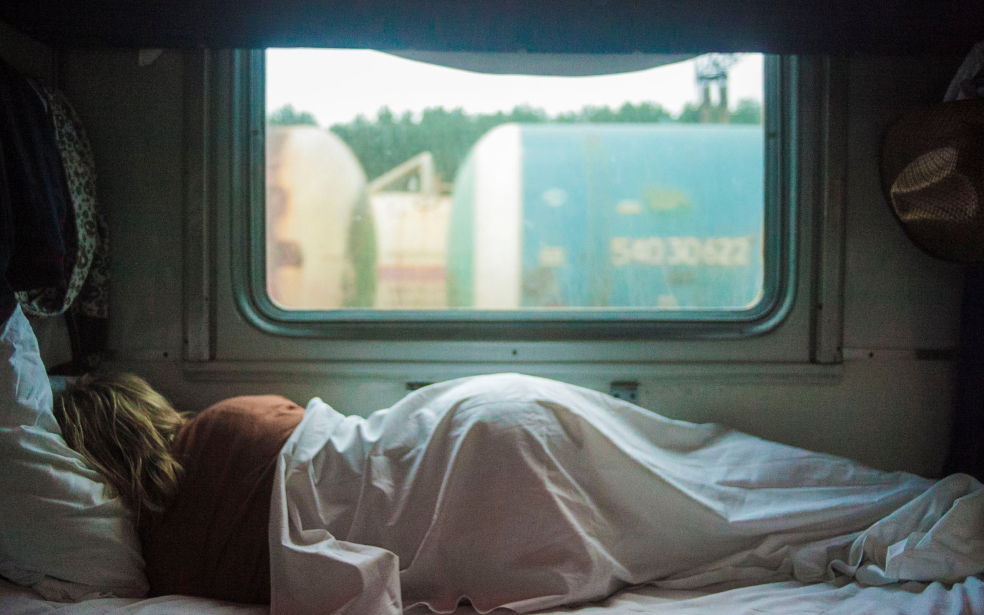
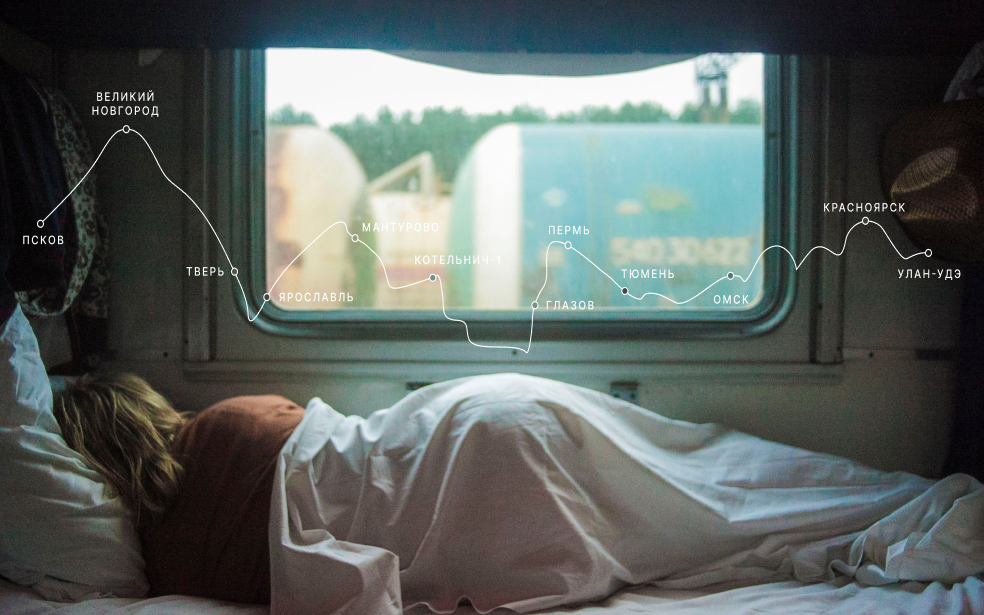
4. Вёрстка секции lead

diff --git a/index.html b/index.html
@@ -15,7 +15,7 @@
     </a>
     <ul class="header__lang-list">
       <li class="header__lang-item">
-        <a href="#" class="header__lang-link header__lang-link_status_active" title="Переключить на Русский язык">Ru</a>
+        <a class="header__lang-link header__lang-link_status_active" title="Переключить на Русский язык">Ru</a>
       </li>
       <li class="header__lang-item">
         <a href="#" class="header__lang-link" title="Switch to English version">En</a>
@@ -26,8 +26,10 @@
     <section class="lead">
       <h1 class="lead__title">Путешествия по России</h1>
       <p class="lead__subtitle">Настоящая страна не в выпусках новостей, а здесь.</p>
-      <div class="lead__image"></div>
-      <p class="lead__caption">ваша полка — верхняя</p>
+      <figure class="lead__figure">
+        <img src="./images/lead-polka.jpg" class="lead__image" alt="Карта путешествия">
+        <figcaption class="lead__caption">ваша полка — верхняя</figcaption>
+      </figure>
     </section>
   </main>
 </body>

diff --git a/blocks/header/header.css b/blocks/header/header.css
@@ -1,6 +1,6 @@
 .header {
   margin: 28px auto 56px;
-  width: calc(100% - 96px);
+  max-width: calc(100% - 96px);
   display: flex;
   justify-content: start;
   align-items: flex-start;
@@ -8,17 +8,19 @@
 }
 @media (min-width: 769px) and (max-width: 1024px) {
   .header {
-    width: calc(100% - 96px);
+    margin: 28px auto 48px;
+    max-width: calc(100% - 96px);
   }
 }
 @media (min-width: 426px) and (max-width: 768px) {
   .header {
-    width: calc(100% - 48px);
+    margin: 28px auto 48px;
+    max-width: calc(100% - 48px);
   }
 }
 @media (max-width: 425px) {
   .header {
     margin: 28px auto 48px;
-    width: calc(100% - 32px);
+    max-width: calc(100% - 32px);
   }
 }

diff --git a/blocks/lead/__image/lead__image.css b/blocks/lead/__image/lead__image.css
@@ -1,10 +1,25 @@
 .lead__image {
   margin: 0 0 8px 0;
-  padding-bottom: 62.5%;
-  max-width: 984px;
-  position: relative;
-  background-image: url('../../../images/lead-polka.jpg');
-  background-repeat: no-repeat;
-  background-size: cover;
+  display: block;
+  min-height: 62.5%;
+  max-width: 100%;
+}
+@media (min-width: 769px) and (max-width: 1024px) {
+  .lead__image {
+    max-height: 580px;
+    max-width: 100%;
+  }
+}
+@media (min-width: 426px) and (max-width: 768px) {
+  .lead__image {
+    max-height: 480px;
+    max-width: 100%;
+  }
+}
+@media (max-width: 425px) {
+  .lead__image {
+    margin: 0 auto 8px;
+    max-height: 200px;
+  }
 }
 

diff --git a/blocks/lead/__subtitle/lead__subtitle.css b/blocks/lead/__subtitle/lead__subtitle.css
@@ -1,20 +1,20 @@
 .lead__subtitle {
   margin: 0 auto 64px;
-  max-width: 640px;
+  max-width: 600px;
   font-size: 30px;
   line-height: 36px;
   font-weight: 400;
   color: #ffffff;
   text-align: center;
 }
-@media (min-width: 768px) {
+@media (min-width: 426px) and (max-width: 768px) {
   .lead__subtitle {
     margin: 0 auto 56px;
     font-size: 30px;
     line-height: 36px;
   }
 }
-@media (max-width: 767px) {
+@media (max-width: 425px) {
   .lead__subtitle {
     margin: 0 auto 40px;
     max-width: 288px;

diff --git a/blocks/lead/__caption/lead__caption.css b/blocks/lead/__caption/lead__caption.css
@@ -1,9 +1,20 @@
 .lead__caption {
-  margin: 0;
   font-size: 10px;
   line-height: 14px;
   font-weight: 400;
   color: #ffffff;
   letter-spacing: 0.15em;
   text-transform: uppercase;
+}
+@media (min-width: 426px) and (max-width: 768px) {
+  .lead__caption {
+    margin: 0 auto 0 24px;
+    max-width: 100%;
+  }
+}
+@media (max-width: 425px) {
+  .lead__caption {
+    margin: 0 auto 0 16px;
+    max-width: 100%;
+  }
 }

diff --git a/blocks/lead/__title/lead__title.css b/blocks/lead/__title/lead__title.css
@@ -7,10 +7,17 @@
   color: #ffffff;
   text-align: center;
 }
-@media (max-width: 767px) {
+@media (min-width: 426px) and (max-width: 768px) {
+  .lead__title {
+    max-width: 480px;
+    font-size: 60px;
+    line-height: 64px;
+  }
+}
+@media (max-width: 425px) {
   .lead__title {
     margin: 0 auto 16px;
-    max-width: calc(100% - 32px);
+    max-width: 288px;
     font-size: 40px;
     line-height: 44px;
   }

diff --git a/pages/index.css b/pages/index.css
@@ -12,5 +12,6 @@
 @import url('../blocks/lead/lead.css');
 @import url('../blocks/lead/__title/lead__title.css');
 @import url('../blocks/lead/__subtitle/lead__subtitle.css');
+@import url('../blocks/lead/__figure/lead__figure.css');
 @import url('../blocks/lead/__image/lead__image.css');
 @import url('../blocks/lead/__caption/lead__caption.css');

diff --git a/blocks/lead/lead.css b/blocks/lead/lead.css
@@ -2,3 +2,18 @@
   max-width: 984px;
   margin: 0 auto;
 }
+@media (min-width: 769px) and (max-width: 1024px) {
+  .lead {
+    max-width: 928px;
+  }
+}
+@media (min-width: 426px) and (max-width: 768px) {
+  .lead {
+    max-width: 100%;
+  }
+}
+@media (max-width: 425px) {
+  .lead {
+    max-width: 100%;
+  }
+}

diff --git a/blocks/lead/__figure/lead__figure.css b/blocks/lead/__figure/lead__figure.css
@@ -1,0 +1,15 @@
+.lead__figure {
+  margin: 0;
+}
+@media (min-width: 426px) and (max-width: 768px) {
+  .lead__figure {
+    margin: 0 auto;
+    max-width: 100%;
+  }
+}
+@media (max-width: 425px) {
+  .lead__figure {
+    margin: 0 auto;
+    max-width: 320px;
+  }
+}

diff --git a/blocks/header/__lang-link/header__lang-link.css b/blocks/header/__lang-link/header__lang-link.css
@@ -5,10 +5,6 @@
   color: #ffffff;
   text-decoration: none;
 }
-.header__lang-link:hover {
-  transition: ease-in-out .335s;
-  opacity: .8;
-}
 @media (max-width: 767px) {
   .header__lang-link {
     font-size: 18px;

diff --git a/blocks/header/__lang-link/_status/header__lang-link_status_active.css b/blocks/header/__lang-link/_status/header__lang-link_status_active.css
@@ -1,3 +1,4 @@
 .header__lang-link_status_active {
   box-shadow: 0 1px 0 0 white;
+  cursor: default;
 }
